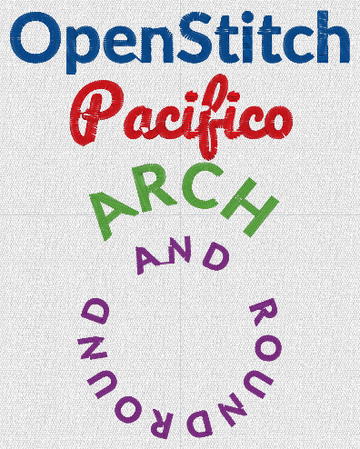
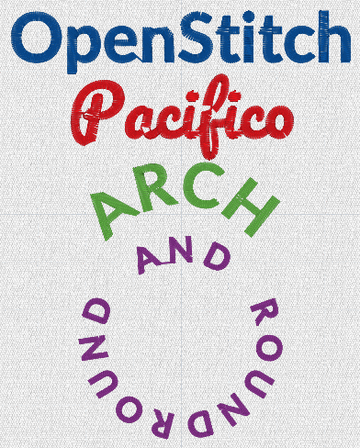
Regenerate lettering/fonts-and-text.pes for N's run-on stems (#446)

Changed region(s): [[0.0, 0.0, 1.0, 1.0]]

diff --git a/examples/sew/README.md b/examples/sew/README.md
@@ -481,7 +481,7 @@ The fonts, Text Transform, text on a path and monograms.
 
 #### Lettering
 
-[`lettering/fonts-and-text.pes`](lettering/fonts-and-text.pes) · 100 × 100 mm hoop · 71 × 89.7 mm · 3,838 stitches · 39 trims · about 6.8 min
+[`lettering/fonts-and-text.pes`](lettering/fonts-and-text.pes) · 100 × 100 mm hoop · 71 × 89.7 mm · 3,865 stitches · 39 trims · about 6.8 min
 
 Lato Bold and Pacifico, a Text Transform arch, and text spaced around a circle (text on a path).
 
